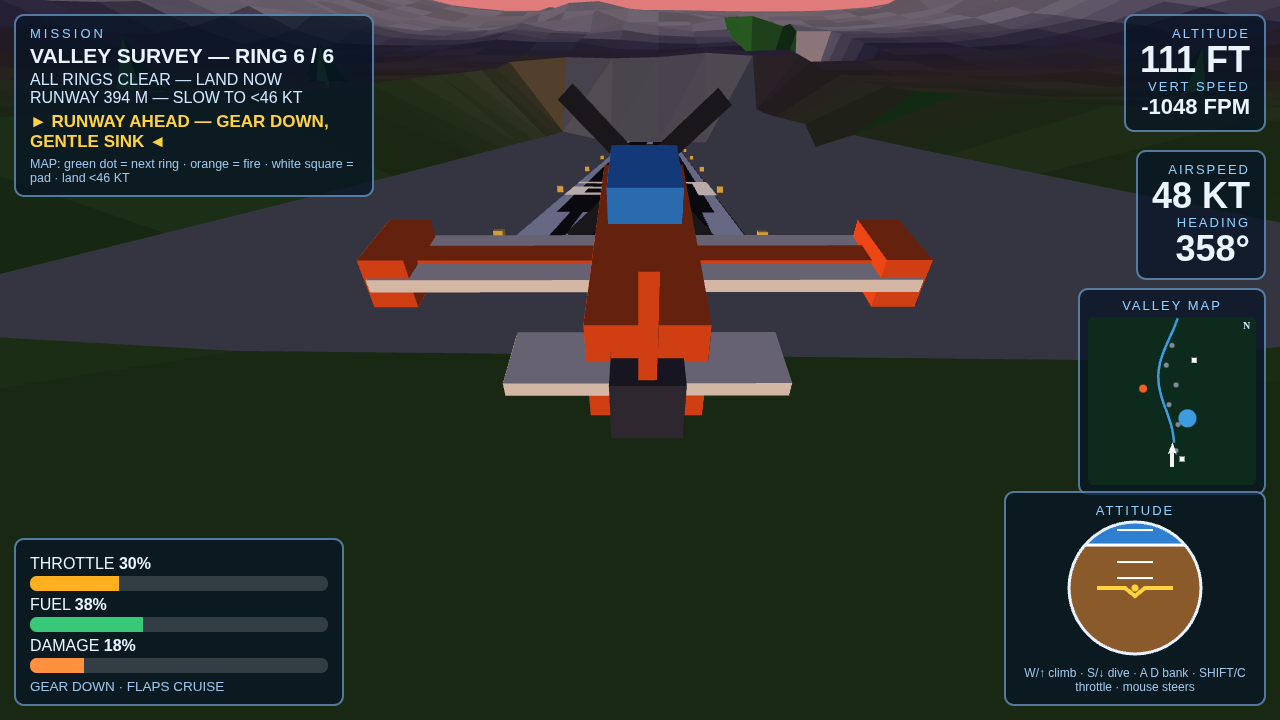
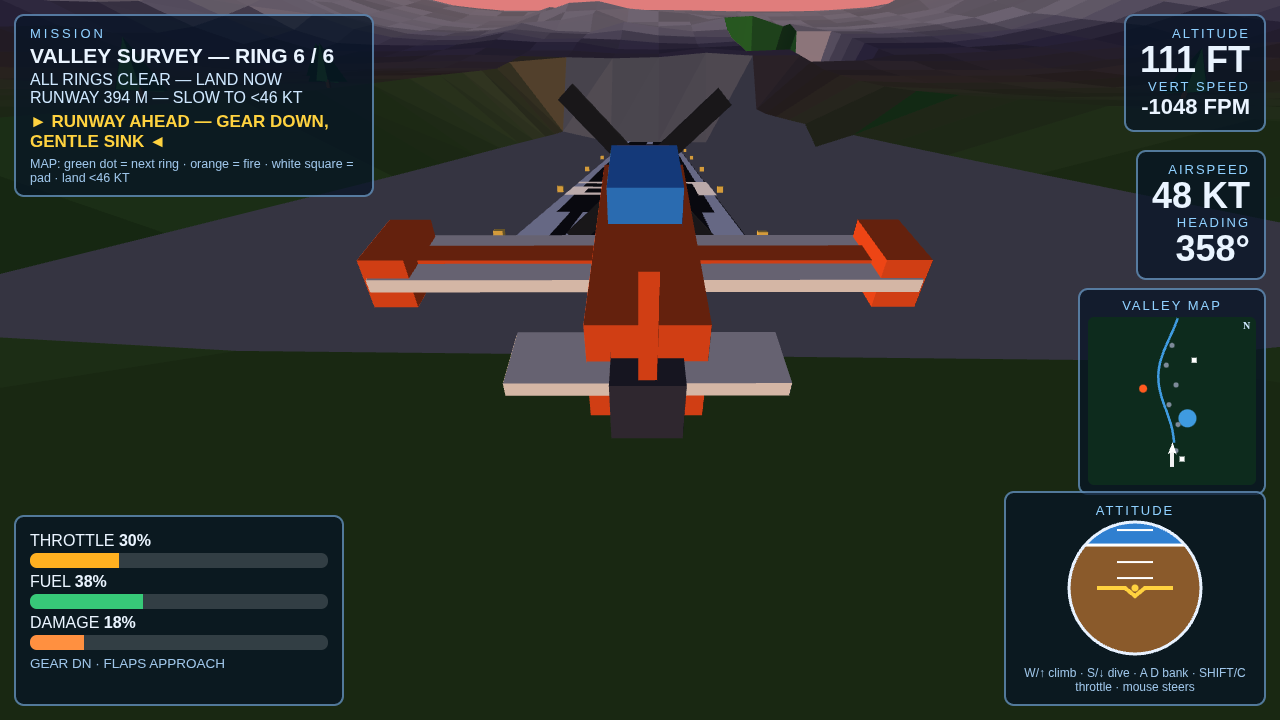
Stage C+D: touchdown grading (SMOOTH/FIRM/MISSED) + per-sortie medals, gear/flaps/low-fuel/stall indicators

Changed region(s): [[0.0, 0.7333, 0.2812, 0.9778]]

diff --git a/game/main.js b/game/main.js
@@ -24,20 +24,23 @@ function terrainHit(){
       flashMsg='PATIENT ABOARD — FLY TO THE HOSPITAL PAD'; flashUntil=tick+210; AudioSys.chime();
       return false;
     }
-    if (pad && pad.result==='delivered'){ finishSortie('landed', pad.why); return true; }
+    if (pad && pad.result==='delivered'){ finishSortie('landed', pad.why, pad); return true; }
     if (pad && pad.result==='crash'){ finishSortie('crash', pad.why); Damage.hit(65,'PAD IMPACT'); return true; }
     const land = Missions.checkLanding(plane, g);
-    if (land && land.result==='landed'){ finishSortie('landed', land.why); return true; }
-    if (land && land.result==='landed-early'){ finishSortie('landed', land.why); return true; }
+    if (land && land.result==='landed'){ finishSortie('landed', land.why, land); return true; }
+    if (land && land.result==='landed-early'){ finishSortie('landed', land.why, land); return true; }
     finishSortie('crash', land? land.why : 'TERRAIN IMPACT AT '+Math.round(plane.speed)+' KT');
     Damage.hit(65,'TERRAIN IMPACT'); return true;
   }
   return false;
 }
-function finishSortie(kind, why){
+const bestMedals = {}; // mission id -> best medal this session, shown on the title screen
+function finishSortie(kind, why, touchInfo){
   screen = (kind==='landed') ? 'landed' : 'crash';
   Missions.state.landed = (kind==='landed');
   Missions.state.finishedTick = tick;
+  resultsData.grade = touchInfo && touchInfo.grade ? touchInfo.grade : (kind==='landed' ? 'FIRM' : null);
+  resultsData.touch = touchInfo && touchInfo.touch ? touchInfo.touch : '';
   resultsData.time = ((tick-sortieStartTick)/60).toFixed(1);
   resultsData.fuel = Fuel.s.pct.toFixed(0);
   resultsData.rings = Missions.state.ringsPassed;
@@ -47,15 +50,33 @@ function finishSortie(kind, why){
     : 'PATIENT <b>'+(Missions.state.patient?'DELIVERED':'NOT REACHED')+'</b> · CLOCK <b>'+Missions.fmtClock(Missions.state.timeLeft)+' LEFT</b>';
   resultsData.why = why;
   resultsData.score = Missions.score(Fuel.s.pct, Damage.s.pct, tick-sortieStartTick);
+  resultsData.medal = Missions.medalFor(resultsData.score, resultsData.grade, kind==='landed' && resultsData.grade!=='MISSED');
+  if (resultsData.medal){
+    const rank = {BRONZE:1, SILVER:2, GOLD:3};
+    const prev = bestMedals[Missions.current.id];
+    if (!prev || rank[resultsData.medal] > rank[prev]) bestMedals[Missions.current.id] = resultsData.medal;
+  }
   showScreen();
 }
 function showScreen(){
   document.getElementById('title-screen').style.display = screen==='title'?'flex':'none';
+  if (screen==='title'){
+    document.getElementById('medals-line').textContent =
+      'MEDALS THIS SESSION — SURVEY '+(bestMedals.survey?'★ '+bestMedals.survey:'—')+
+      ' · SCOOP & DROP '+(bestMedals.fire?'★ '+bestMedals.fire:'—')+
+      ' · MEDEVAC '+(bestMedals.medevac?'★ '+bestMedals.medevac:'—');
+  }
   document.getElementById('end-screen').style.display = (screen==='results'||screen==='landed'||screen==='crash')?'flex':'none';
   if (screen==='landed'||screen==='crash'||screen==='results'){
     document.getElementById('end-title').textContent =
       screen==='landed' ? 'SORTIE COMPLETE — LANDED' : screen==='crash' ? 'CRASHED' : 'SORTIE RESULTS';
+    const gradeLine = resultsData.grade
+      ? '<div class="grade grade-'+resultsData.grade.toLowerCase()+'">TOUCHDOWN: '+resultsData.grade+
+        (resultsData.touch ? ' <span class="touch">('+resultsData.touch+')</span>' : '')+'</div>' : '';
+    const medalLine = resultsData.medal
+      ? '<div class="medal medal-'+resultsData.medal.toLowerCase()+'">★ '+resultsData.medal+' MEDAL — '+Missions.current.name+'</div>' : '';
     document.getElementById('end-stats').innerHTML =
+      gradeLine + medalLine +
       '<div>TIME <b>'+resultsData.time+' S</b></div><div>'+resultsData.detail+'</div>'+
       '<div>FUEL LEFT <b>'+resultsData.fuel+'%</b></div><div>DAMAGE <b>'+Damage.s.pct.toFixed(0)+'%</b></div>'+
       '<div>SCORE <b>'+resultsData.score+'</b></div><p class="why">'+resultsData.why+'</p>';
@@ -158,6 +179,7 @@ function applyPreset(name){
   else if (name==='results'){ applyPresetSilent(); screen='results';
     resultsData.time='118.4'; resultsData.fuel='31'; resultsData.rings=6;
     resultsData.detail='RINGS <b>6 / 6</b>';
+    resultsData.grade='SMOOTH'; resultsData.touch='34 KT · SINK 1.8 M/S'; resultsData.medal='GOLD';
     resultsData.why='CLEAN TOUCHDOWN — ALL 6 RINGS, VALLEY SURVEY COMPLETE';
     Missions.state.ringsPassed=6; Missions.state.landed=true; resultsData.score=Missions.score(31,18,118.4*60); showScreen(); }
   else if (name==='title'){ screen='title'; }

diff --git a/game/missions.js b/game/missions.js
@@ -84,6 +84,14 @@ const Missions = (() => {
   }
   // Is the plane on this pad, gently? Used by main.js when ground contact happens.
   function onPad(plane, pad){ return Math.hypot(plane.pos[0]-pad.x, plane.pos[2]-pad.z) < pad.r; }
+  // Touchdown grading, judged at the moment of contact: SMOOTH is slow and
+  // gentle, FIRM is legal but rough, and anything past the legal limits has
+  // already been called a crash by the checks below.
+  function gradeTouch(plane){
+    const speed=Math.round(plane.speed), sink=Math.abs(plane.vy);
+    const grade = (speed<=38 && sink<=2.5) ? 'SMOOTH' : 'FIRM';
+    return { grade, touch: speed+' KT · SINK '+sink.toFixed(1)+' M/S' };
+  }
   function padTouch(plane, groundY){
     if (current.id!=='medevac') return null;
     const gentle = plane.speed<46 && Math.abs(plane.vy)<=7.5;
@@ -94,7 +102,7 @@ const Missions = (() => {
     }
     if (state.stage==='deliver' && onPad(plane, HOSPITAL_PAD)){
       if (!gentle) return {result:'crash', why:'HARD ARRIVAL AT THE HOSPITAL PAD'};
-      return {result:'delivered', why:'PATIENT DELIVERED — ' + fmtClock(state.timeLeft) + ' TO SPARE'};
+      return {result:'delivered', why:'PATIENT DELIVERED — ' + fmtClock(state.timeLeft) + ' TO SPARE', ...gradeTouch(plane)};
     }
     return null;
   }
@@ -106,10 +114,20 @@ const Missions = (() => {
     if (agl<3.2){
       if (plane.speed>46) return {result:'crash', why:'TOO FAST ON TOUCHDOWN — '+Math.round(plane.speed)+' KT'};
       if (Math.abs(plane.vy)>7.5) return {result:'crash', why:'HARD IMPACT — SINK '+Math.abs(plane.vy).toFixed(1)+' M/S'};
-      if (current.id==='survey' && state.ringsPassed<6) return {result:'landed-early', why:'LANDED BEFORE ALL 6 RINGS'};
-      if (current.id==='fire' && state.stage!=='land') return {result:'landed-early', why:'LANDED WITH THE FIRE STILL BURNING'};
-      return {result:'landed', why:'CLEAN TOUCHDOWN'};
+      if (current.id==='survey' && state.ringsPassed<6) return {result:'landed-early', why:'LANDED BEFORE ALL 6 RINGS', grade:'MISSED', touch:gradeTouch(plane).touch};
+      if (current.id==='fire' && state.stage!=='land') return {result:'landed-early', why:'LANDED WITH THE FIRE STILL BURNING', grade:'MISSED', touch:gradeTouch(plane).touch};
+      return {result:'landed', why:'CLEAN TOUCHDOWN', ...gradeTouch(plane)};
     }
+    return null;
+  }
+  // One medal per sortie, hung on the results screen: GOLD needs a smooth
+  // touchdown and a strong score, SILVER any completed landing, BRONZE a
+  // safe arrival that missed the brief.
+  const GOLD_SCORE = { survey:1100, fire:1050, medevac:1000 };
+  function medalFor(scoreValue, grade, completed){
+    if (completed && grade==='SMOOTH' && scoreValue>=GOLD_SCORE[current.id]) return 'GOLD';
+    if (completed) return 'SILVER';
+    if (grade==='MISSED') return 'BRONZE';
     return null;
   }
   function score(fuelLeft, damage, ticks){
@@ -134,5 +152,5 @@ const Missions = (() => {
   }
   reset();
   return {LIST, rings, state, FIRE, LAKE, PICKUP_PAD, HOSPITAL_PAD,
-    get current(){ return current; }, select, reset, nextRing, update, padTouch, checkLanding, score, buildRingMesh, fmtClock};
+    get current(){ return current; }, select, reset, nextRing, update, padTouch, checkLanding, score, medalFor, buildRingMesh, fmtClock};
 })();

diff --git a/game/instruments.js b/game/instruments.js
@@ -7,7 +7,7 @@ const Instruments = (() => {
   const el = {};
   function init(){
     for (const id of ['alt','spd','hdg','thrbar','fuelbar','dmgbar','fuelpct','dmgpct','thrval',
-      'mission','ringinfo','distinfo','callout','vspeed','gearmsg']) el[id]=document.getElementById(id);
+      'mission','ringinfo','distinfo','callout','vspeed','gearmsg','warnline']) el[id]=document.getElementById(id);
     el.horizon = document.getElementById('horizon').getContext('2d');
     el.map = document.getElementById('minimap').getContext('2d');
   }
@@ -24,6 +24,15 @@ const Instruments = (() => {
     el.fuelpct.textContent = Fuel.s.pct.toFixed(0)+'%';
     bar(el.dmgbar, Damage.s.pct, Damage.s.pct>60?'#ff4444':'#ff9040');
     el.dmgpct.textContent = Damage.s.pct.toFixed(0)+'%';
+    // Configuration + warnings: fixed gear is always down; flap setting is
+    // read off the airspeed the way a pilot would schedule it; the warning
+    // line speaks only when something is actually wrong.
+    const flaps = plane.speed<40 ? 'FULL' : plane.speed<56 ? 'APPROACH' : 'CRUISE';
+    el.gearmsg.textContent = 'GEAR DN · FLAPS '+flaps;
+    const agl = plane.pos[1]-Terrain.heightAt(plane.pos[0], plane.pos[2]);
+    el.warnline.textContent =
+      Fuel.s.pct<25 ? (tick%70<42 ? '⚠ LOW FUEL — LAND SOON' : '') :
+      (plane.speed<30 && agl>6) ? '⚠ STALL — NOSE DOWN' : '';
     const S = Missions.state, mid = Missions.current.id;
     const runwayDist = Math.max(0,Math.round(Math.abs(plane.pos[2]+5400)));
     if (mid==='survey'){

diff --git a/game/index.html b/game/index.html
@@ -30,7 +30,8 @@
     <div class="row"><span>THROTTLE <b id="thrval">0%</b></span><div class="bar"><div id="thrbar"></div></div></div>
     <div class="row"><span>FUEL <b id="fuelpct">100%</b></span><div class="bar"><div id="fuelbar"></div></div></div>
     <div class="row"><span>DAMAGE <b id="dmgpct">0%</b></span><div class="bar"><div id="dmgbar"></div></div></div>
-    <div id="gearmsg">GEAR DOWN · FLAPS CRUISE</div>
+    <div id="gearmsg">GEAR DN · FLAPS CRUISE</div>
+    <div id="warnline"></div>
   </div>
   <div class="panel" id="horizon-panel">
     <div class="label center">ATTITUDE</div>
@@ -44,6 +45,7 @@
   <p class="sub">THREE SORTIES · ONE VALLEY · ONE TANK OF FUEL EACH</p>
   <div id="mission-cards"></div>
   <button id="start-btn">▶ FLY SELECTED SORTIE — ENTER</button>
+  <p class="keys" id="medals-line">MEDALS THIS SESSION — SURVEY — · SCOOP &amp; DROP — · MEDEVAC —</p>
   <p class="keys">Pick a sortie: click a card or press 1 · 2 · 3 — then ENTER to fly</p>
   <p class="keys">W/↑ climb · S/↓ dive · A/D bank · SHIFT throttle up · C throttle down · mouse steers</p>
 </div>

diff --git a/game/style.css b/game/style.css
@@ -39,3 +39,13 @@
 .keys{font-size:15px;color:#b9d9f5}
 #end-stats{font-size:26px;line-height:1.6}
 #end-stats .why{font-size:20px;color:#ffd23f;max-width:700px}
+#end-stats .grade{font-size:34px;font-weight:bold;letter-spacing:1px}
+#end-stats .grade .touch{font-size:21px;color:#cfe8ff}
+#end-stats .grade-smooth{color:#5cff8a}
+#end-stats .grade-firm{color:#ffb020}
+#end-stats .grade-missed{color:#ff7a5c}
+#end-stats .medal{font-size:27px;font-weight:bold;margin:2px 0 6px}
+#end-stats .medal-gold{color:#ffd23f}
+#end-stats .medal-silver{color:#dfe8f2}
+#end-stats .medal-bronze{color:#e09a5c}
+#warnline{font-size:15px;font-weight:bold;color:#ff4444;margin-top:5px;min-height:18px}
